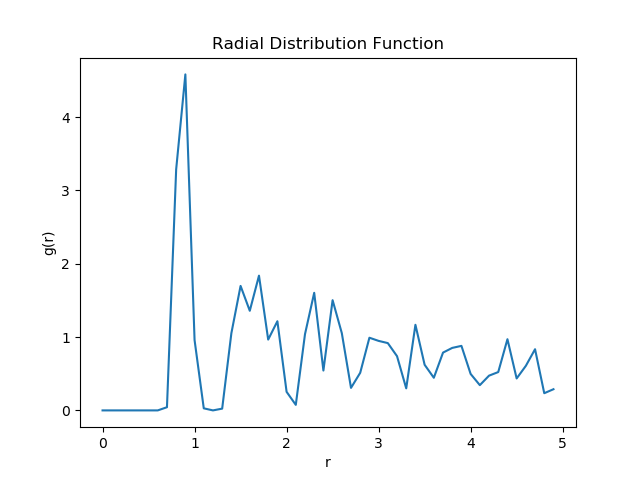
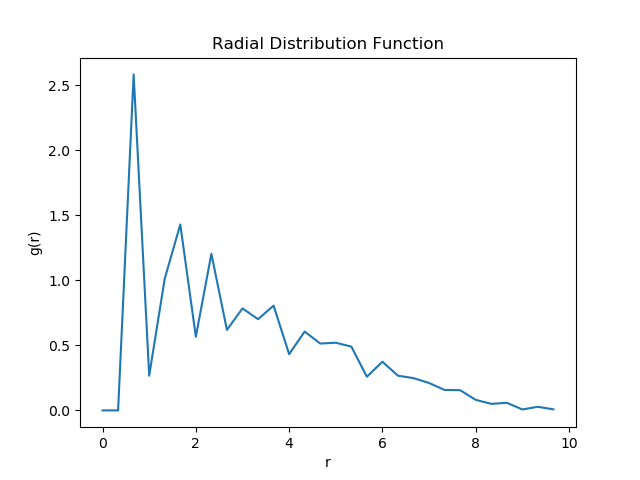
Merged TestData branch, including application of program on simulated data

diff --git a/LatticePoints.py b/LatticePoints.py
@@ -19,7 +19,7 @@ threshold = 0
 averageRadius = 0
 maxLatticeSpacing = 0
 # Number of bins and cutoff radius for radial correlation function g(r)
-bins, cutoff = 50,5
+bins, cutoff = 30,10
 # Window and size of window
 win = 0
 size_x = 512
@@ -308,7 +308,7 @@ def storeRDF(gR):
 
 def main():
 	global filename
-	filename = "CDW_GonTaS2"
+	filename = "TestCDW_512px"
 	data = np.loadtxt(filename+".txt")
 
 	# Identify width and height of data array
